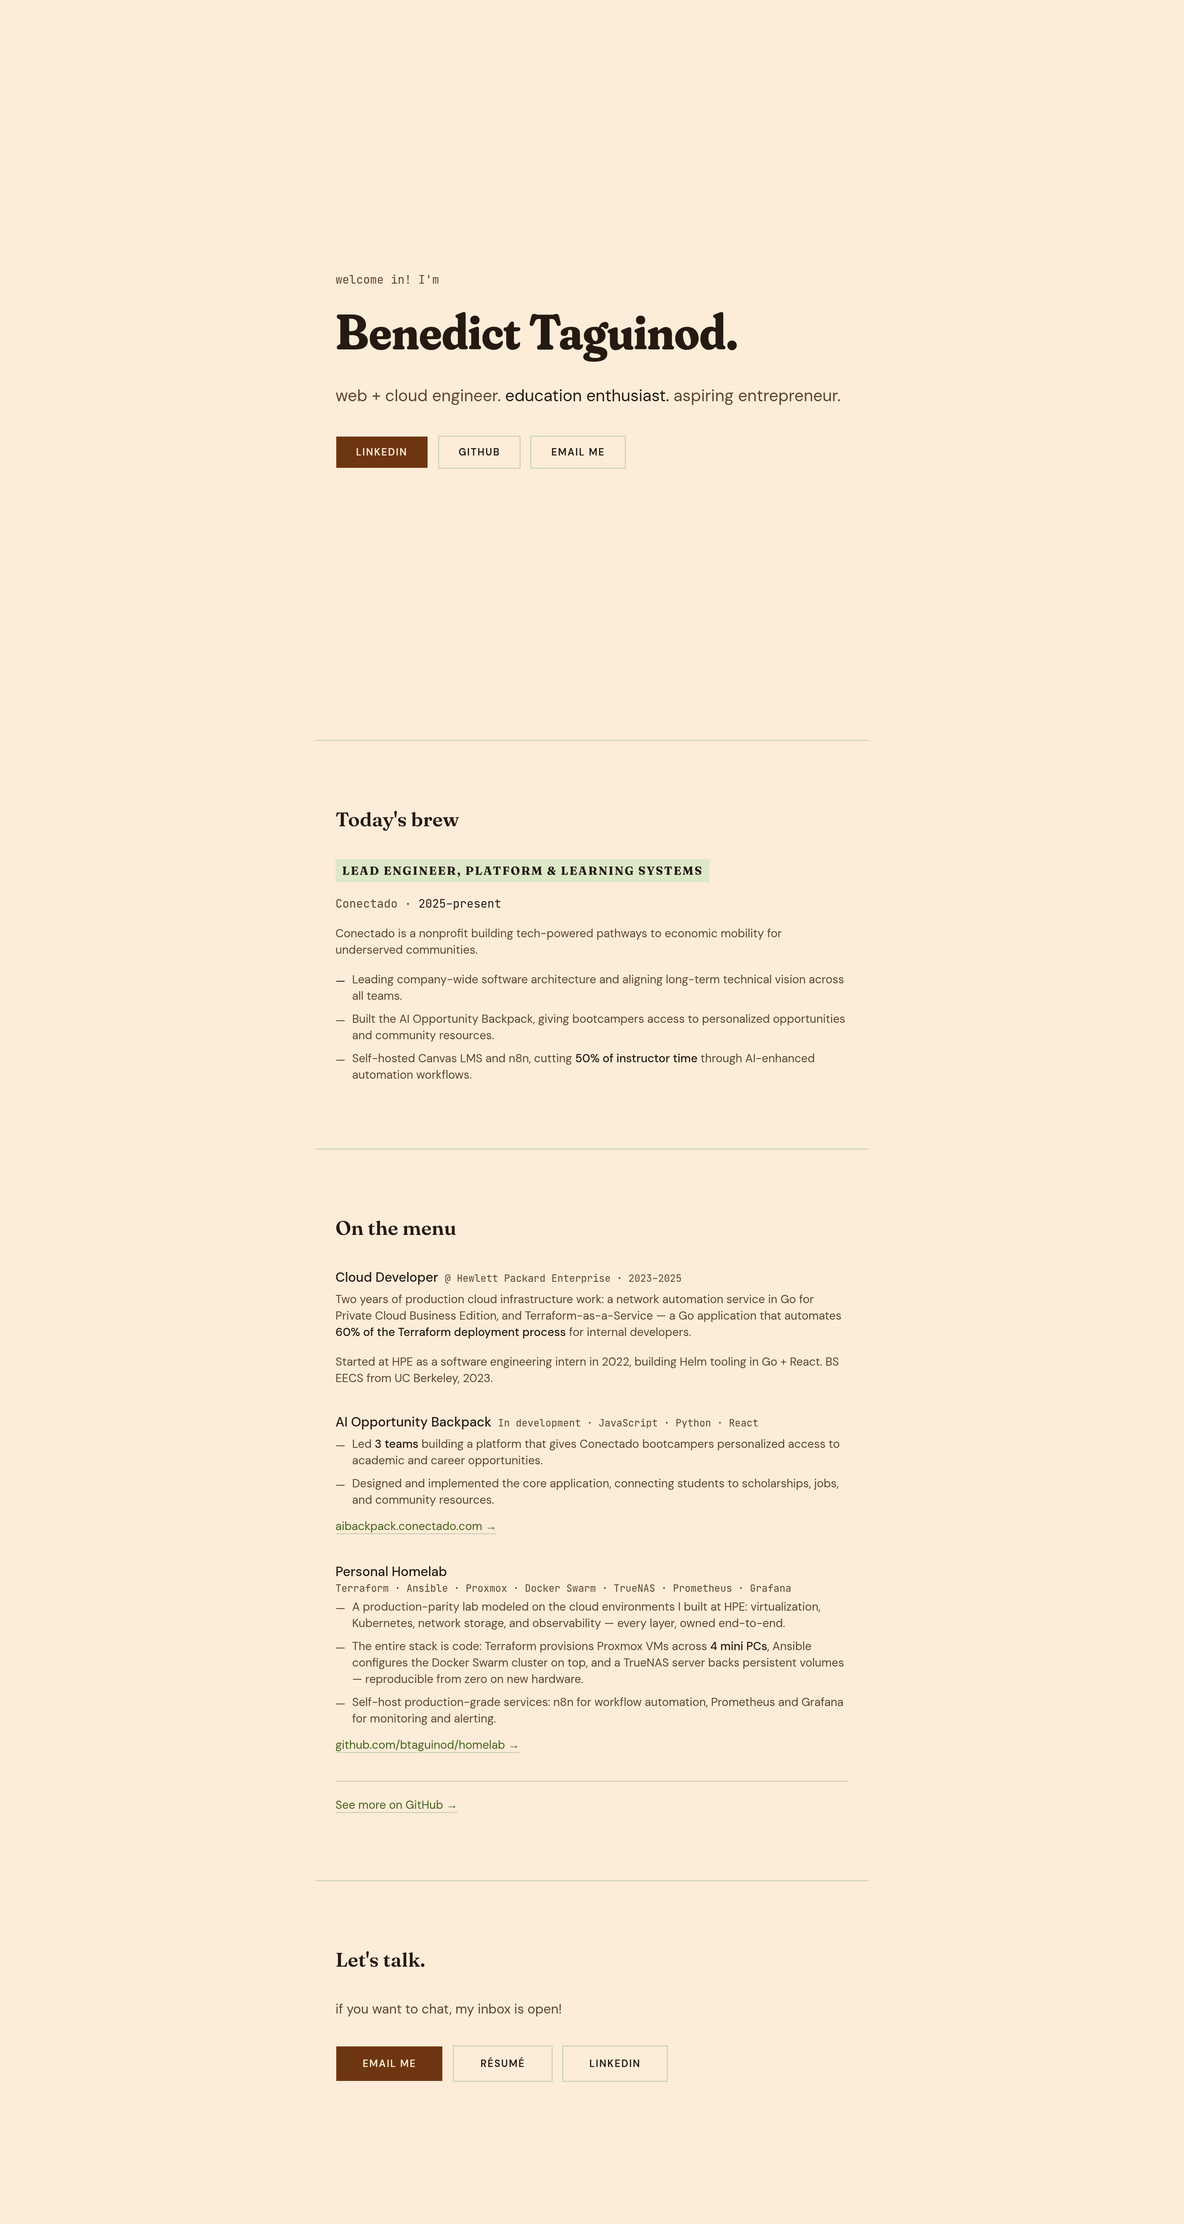
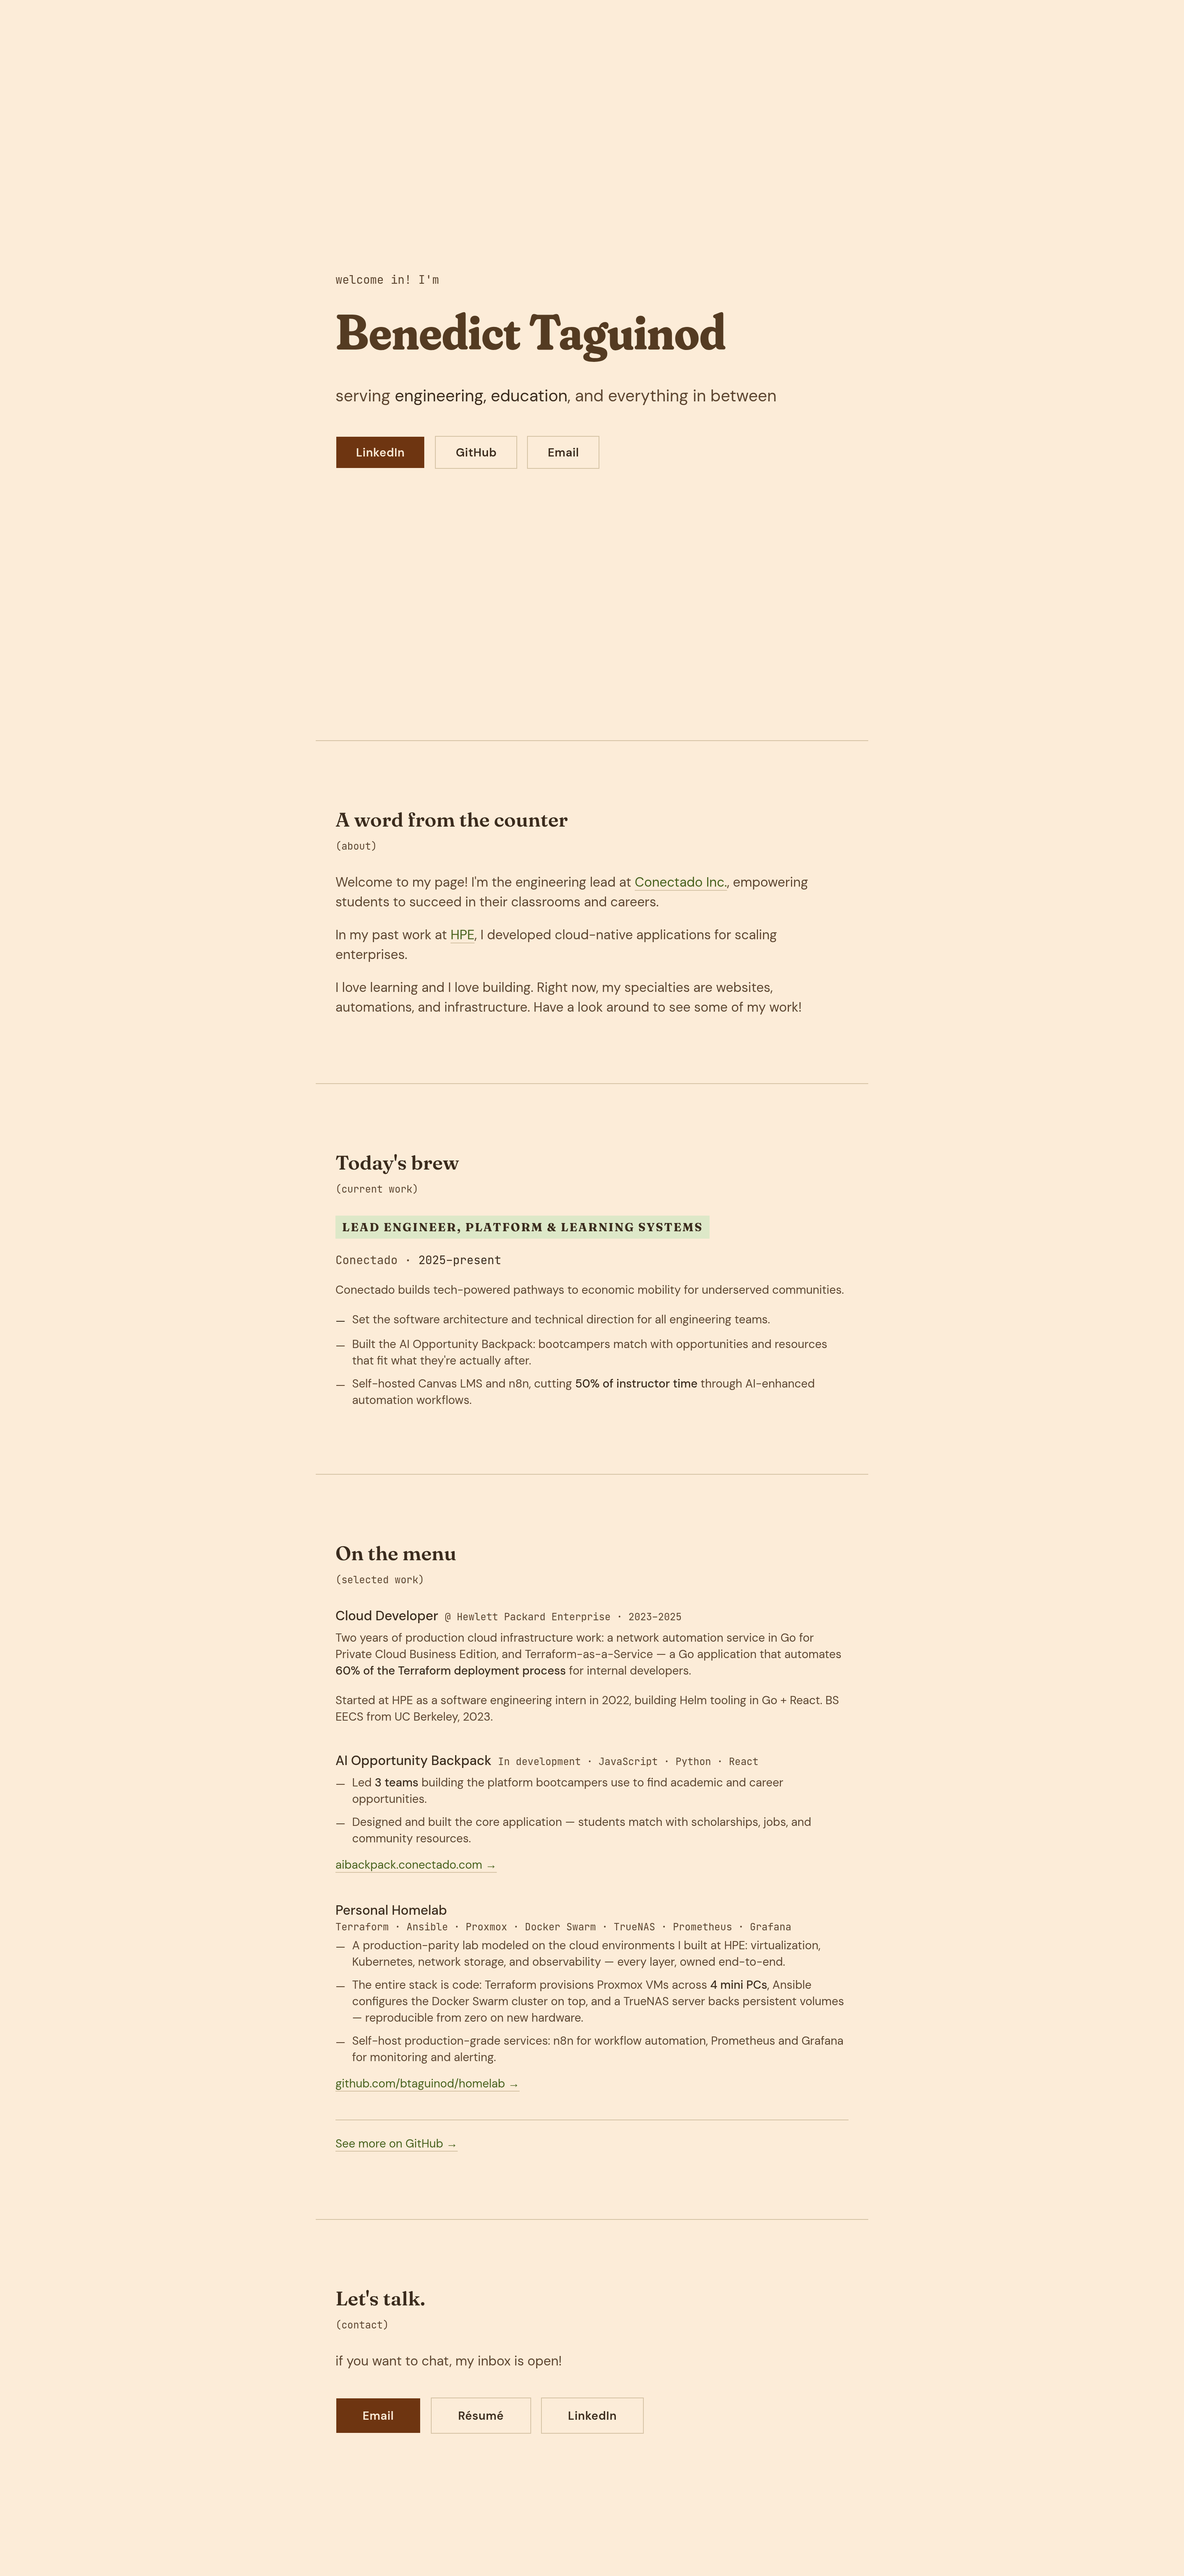
more tuning, including bio

diff --git a/app/page.tsx b/app/page.tsx
@@ -108,9 +108,9 @@ export default function Page() {
           data-js-hide
           className="mb-8 text-xl leading-relaxed text-muted-foreground"
         >
-          web &amp; cloud engineer ·{" "}
-          <span className="text-foreground">education enthusiast</span> ·
-          aspiring entrepreneur
+          serving{" "}
+          <span className="text-foreground">engineering, education</span>, and
+          everything in between
         </p>
         <div ref={heroButtonsRef} data-js-hide className="flex flex-wrap gap-3">
           <Button
@@ -148,7 +148,7 @@ export default function Page() {
         </div>
       </section>
 
-      {/* Today's brew — the special */}
+      {/* About — a word from the counter */}
       <section
         data-section
         className="mx-auto max-w-2xl border-t border-border px-6 py-20"
@@ -157,8 +157,50 @@ export default function Page() {
           className="mb-8 text-2xl font-semibold"
           style={{ fontFamily: "var(--font-heading)" }}
         >
+          A word from the counter
+        </h2>
+        <p className="mb-4 text-muted-foreground">
+          Welcome to my page! I&apos;m the engineering lead at{" "}
+          <a
+            href="#connectado"
+            className="text-secondary underline decoration-border underline-offset-4 transition-colors hover:decoration-secondary"
+          >
+            Conectado
+          </a>
+          , empowering students to succeed in their classrooms and careers.
+        </p>
+        <p className="mb-4 text-muted-foreground">
+          In my past work at{" "}
+          <a
+            href="#work"
+            className="text-secondary underline decoration-border underline-offset-4 transition-colors hover:decoration-secondary"
+          >
+            HPE
+          </a>
+          , I developed cloud-native applications for scaling enterprises.
+        </p>
+        <p className="text-muted-foreground">
+          I love learning and I love building. Right now, my specialties are
+          websites, automations, and infrastructure. Have a look around to see
+          some of my work!
+        </p>
+      </section>
+
+      {/* Today's brew — the special */}
+      <section
+        id="connectado"
+        data-section
+        className="mx-auto max-w-2xl scroll-mt-8 border-t border-border px-6 py-20"
+      >
+        <h2
+          className="mb-8 text-2xl font-semibold"
+          style={{ fontFamily: "var(--font-heading)" }}
+        >
           Today&apos;s brew
         </h2>
+        <p className="-mt-6 mb-6 font-mono text-xs text-muted-foreground">
+          (current work)
+        </p>
         <div className="mb-4 flex items-baseline gap-2">
           <span
             className="inline-block bg-card px-2 text-sm font-bold uppercase leading-7 tracking-widest"
@@ -168,25 +210,26 @@ export default function Page() {
           </span>
         </div>
         <p className="font-mono text-sm text-muted-foreground">
-          Conectado · <span className="text-foreground">2025–present</span>
+          Conectado Inc. ·{" "}
+          <span className="text-foreground">2025–present</span>
         </p>
         <p className="mt-4 mb-4 text-sm text-muted-foreground">
-          Conectado is a nonprofit building tech-powered pathways to economic
-          mobility for underserved communities.
+          Conectado builds tech-powered pathways to economic mobility.
         </p>
         <ul className="space-y-2 text-sm text-muted-foreground">
           <li className="flex gap-2">
             <span className="mt-0.5 text-accent-foreground">—</span>
             <span>
-              Leading company-wide software architecture and aligning long-term
-              technical vision across all teams.
+              Set the software architecture and technical direction for all
+              engineering teams.
             </span>
           </li>
           <li className="flex gap-2">
             <span className="mt-0.5">—</span>
             <span>
-              Built the AI Opportunity Backpack, giving bootcampers access to
-              personalized opportunities and community resources.
+              Built the AI Opportunity Backpack: bootcampers match with
+              opportunities and resources that fit what they&apos;re
+              actually after.
             </span>
           </li>
           <li className="flex gap-2">
@@ -204,8 +247,9 @@ export default function Page() {
 
       {/* The menu — previous work */}
       <section
+        id="work"
         data-section
-        className="mx-auto max-w-2xl border-t border-border px-6 py-20"
+        className="mx-auto max-w-2xl scroll-mt-8 border-t border-border px-6 py-20"
       >
         <h2
           className="mb-8 text-2xl font-semibold"
@@ -213,6 +257,9 @@ export default function Page() {
         >
           On the menu
         </h2>
+        <p className="-mt-6 mb-6 font-mono text-xs text-muted-foreground">
+          (selected work)
+        </p>
         <div className="space-y-8">
           <div>
             <div className="mb-1 flex flex-wrap items-baseline gap-x-2">
@@ -248,15 +295,15 @@ export default function Page() {
                 <span className="mt-0.5">—</span>
                 <span>
                   Led <span className="font-medium text-foreground">3 teams</span>{" "}
-                  building a platform that gives Conectado bootcampers
-                  personalized access to academic and career opportunities.
+                  building the platform bootcampers use to find academic and
+                  career opportunities.
                 </span>
               </li>
               <li className="flex gap-2">
                 <span className="mt-0.5">—</span>
                 <span>
-                  Designed and implemented the core application, connecting
-                  students to scholarships, jobs, and community resources.
+                  Designed and built the core application — students match
+                  with scholarships, jobs, and community resources.
                 </span>
               </li>
             </ul>

diff --git a/app/layout.tsx b/app/layout.tsx
@@ -20,11 +20,11 @@ const jetbrainsMono = JetBrains_Mono({
 
 export const metadata: Metadata = {
   metadataBase: new URL("https://benedict-taguinod.com"),
-  title: "Benedict Taguinod — web + cloud engineer",
+  title: "Benedict Taguinod — web & cloud engineer",
   description:
     "Berkeley EECS graduate. Ex-HPE cloud developer (Go, Terraform, Kubernetes). Lead engineer at Conectado, building tech-powered pathways to economic mobility.",
   openGraph: {
-    title: "Benedict Taguinod — web + cloud engineer",
+    title: "Benedict Taguinod — web & cloud engineer",
     description:
       "Berkeley EECS graduate. Ex-HPE cloud developer (Go, Terraform, Kubernetes). Lead engineer at Conectado.",
     url: "https://benedict-taguinod.com",
@@ -34,7 +34,7 @@ export const metadata: Metadata = {
   },
   twitter: {
     card: "summary_large_image",
-    title: "Benedict Taguinod — web + cloud engineer",
+    title: "Benedict Taguinod — web & cloud engineer",
     description:
       "Berkeley EECS graduate. Ex-HPE cloud developer (Go, Terraform, Kubernetes). Lead engineer at Conectado.",
   },

diff --git a/app/opengraph-image.tsx b/app/opengraph-image.tsx
@@ -1,6 +1,6 @@
 import { ImageResponse } from "next/og"
 
-export const alt = "Benedict Taguinod — web + cloud engineer"
+export const alt = "Benedict Taguinod — web & cloud engineer"
 export const size = {
   width: 1200,
   height: 630,
@@ -61,7 +61,7 @@ export default async function Image() {
           Benedict Taguinod.
         </div>
         <div style={{ display: "flex", fontSize: 40, color: ACCENT }}>
-          web + cloud engineer
+          web & cloud engineer
         </div>
       </div>
     </div>,

diff --git a/PRODUCT.md b/PRODUCT.md
@@ -16,7 +16,7 @@ A personal portfolio for Benedict Taguinod: Berkeley EECS graduate, former Cloud
 
 ## Positioning
 
-Full-stack infrastructure + mission: deep cloud and systems engineering (Go microservices, bare-metal Kubernetes, Terraform-as-a-Service) applied to education and economic mobility through Conectado. The combination of production-grade technical work at a major enterprise (HPE) and founding-level engineering at a nonprofit (Conectado) is the distinguishing claim — not either alone.
+Full-stack infrastructure + mission: deep cloud and systems engineering (Go microservices, bare-metal Kubernetes, Terraform-as-a-Service) applied to education and economic mobility through Conectado. The combination of production-grade technical work at a major enterprise (HPE) and founding-level engineering at a mission-driven company (Conectado) is the distinguishing claim — not either alone.
 
 ## Operating Context
 
@@ -49,7 +49,7 @@ Full-stack infrastructure + mission: deep cloud and systems engineering (Go micr
 
 - Name: Benedict Taguinod (never abbreviated to Ben)
 - Voice: direct, grounded, no marketing language — the copy describes real work with real numbers where they exist
-- Tagline in use: "web + cloud engineer. education enthusiast. aspiring entrepreneur." (all lowercase)
+- Tagline in use: "serving engineering, education, and everything in between" (all lowercase; decided 2026-10-03)
 
 ## Evidence on Hand
 
@@ -84,7 +84,7 @@ Full-stack infrastructure + mission: deep cloud and systems engineering (Go micr
 ## Product Principles
 
 1. **Depth over breadth.** One well-chosen project entry that shows system-level thinking beats a list of side projects. Every item earns its place.
-2. **Mission is the moat.** The combination of enterprise rigor and nonprofit purpose is the claim no neighboring engineer can copy. It should read as intentional, not incidental.
+2. **Mission is the moat.** The combination of enterprise rigor and mission-driven purpose is the claim no neighboring engineer can copy. It should read as intentional, not incidental.
 3. **Earns the call, not the job.** The portfolio's job is to make a recruiter want to talk — not to replace the resume or substitute for a conversation.
 4. **Real copy only.** Numbers, names, and outcomes come from the actual work. No marketing filler, no estimated impact that isn't documented.
 5. **The interface recedes.** This is an Experience-mode surface: the person and the work lead; the chrome disappears.
